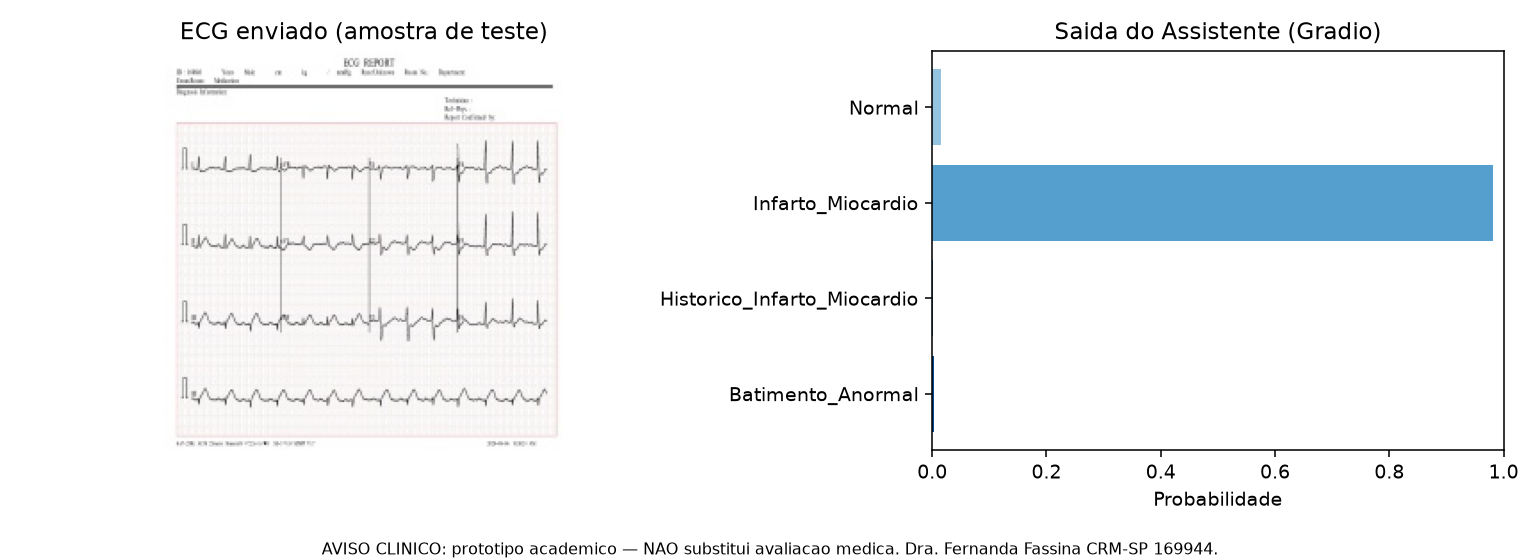
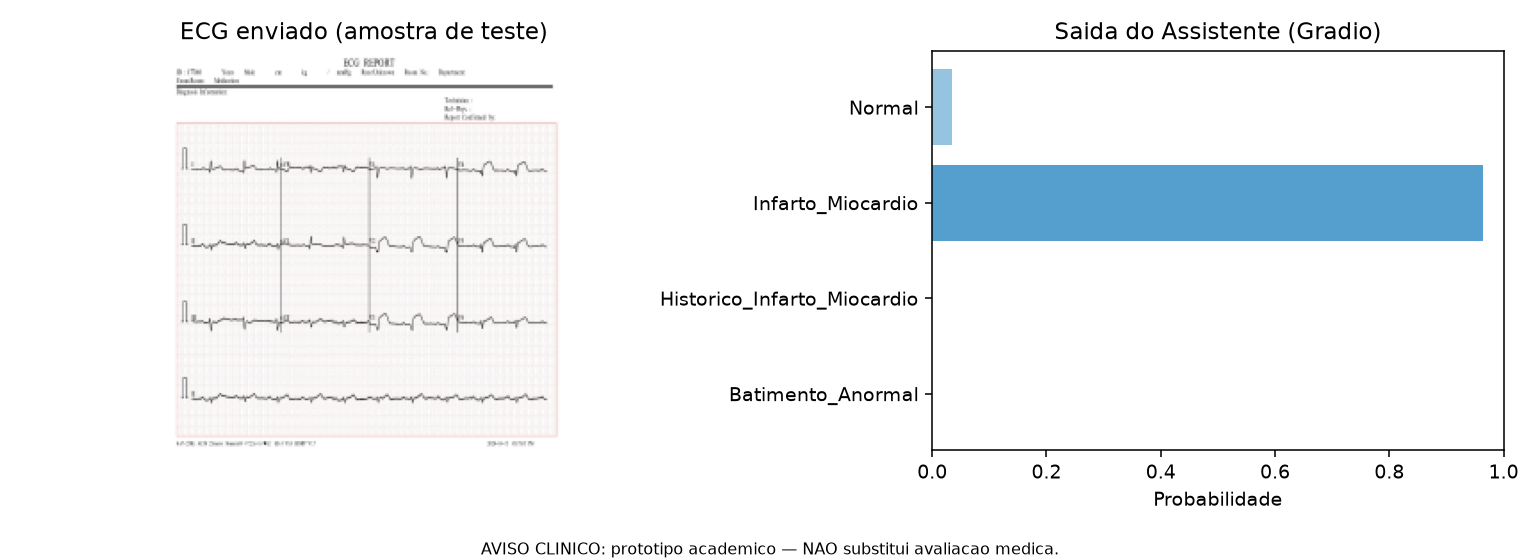
docs(fase4): remove nome e CRM da supervisora clínica
Mantém só o aviso genérico de protótipo acadêmico nos textos e figuras da Fase 4.

diff --git a/fase4/src/treinar_e_avaliar.py b/fase4/src/treinar_e_avaliar.py
@@ -303,10 +303,7 @@ def main() -> None:
     plt.close(fig)
 
     payload = {
-        "aviso_clinico": (
-            "Protótipo acadêmico — NÃO substitui avaliação médica. "
-            "Dra. Fernanda Fassina CRM-SP 169944."
-        ),
+        "aviso_clinico": "Protótipo acadêmico — NÃO substitui avaliação médica.",
         "seed": SEED,
         "melhor_modelo": str(melhor_nome),
         "cnn_simples": {k: v for k, v in m_cnn.items() if k != "figura"},

diff --git a/fase4/README.md b/fase4/README.md
@@ -1,7 +1,6 @@
 # CardioIA — Fase 4: Assistente Cardiológico Virtual (Visão Computacional)
 
 > ⚠ **AVISO CLÍNICO:** Este sistema é um protótipo acadêmico e **NÃO** substitui avaliação médica.
-> Supervisionado por Dra. Fernanda Fassina (CRM-SP 169944).
 
 Protótipo que transforma **imagens de ECG** (dataset público) em classificação assistida por CNN, com pré-processamento documentado, comparação entre rede treinada do zero e Transfer Learning (VGG16) e demonstração interativa em Gradio.
 

diff --git a/fase4/docs/relatorio_preprocessamento.md b/fase4/docs/relatorio_preprocessamento.md
@@ -1,7 +1,6 @@
 # Relatório — Pré-processamento de imagens de ECG (Fase 4 · Parte 1)
 
 > ⚠ **AVISO CLÍNICO:** Este sistema é um protótipo acadêmico e **NÃO** substitui avaliação médica.
-> Supervisionado por Dra. Fernanda Fassina (CRM-SP 169944).
 
 **Equipe:** Grupo S — FIAP (Caroline Corrêa, Enzo Sader, Lucas Koyama, Rodrigo Figueiroa, Tiago Curi)  
 **Notebook:** [`../notebooks/01_preprocessamento.ipynb`](../notebooks/01_preprocessamento.ipynb)  

diff --git a/fase4/docs/evidencias/README.md b/fase4/docs/evidencias/README.md
@@ -1,7 +1,6 @@
 # Evidências — Fase 4
 
 > ⚠ **AVISO CLÍNICO:** Protótipo acadêmico — **NÃO** substitui avaliação médica.
-> Dra. Fernanda Fassina (CRM-SP 169944).
 
 | Arquivo | Conteúdo |
 |---|---|
